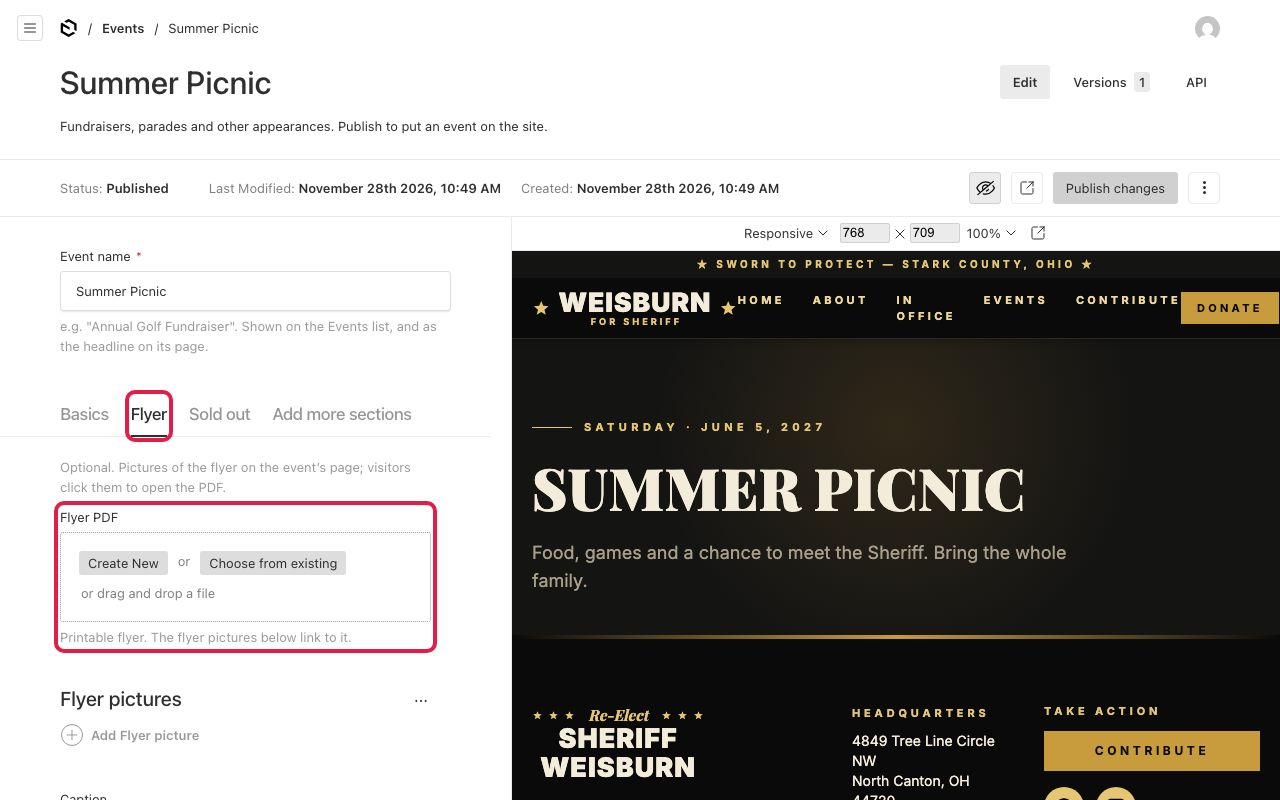
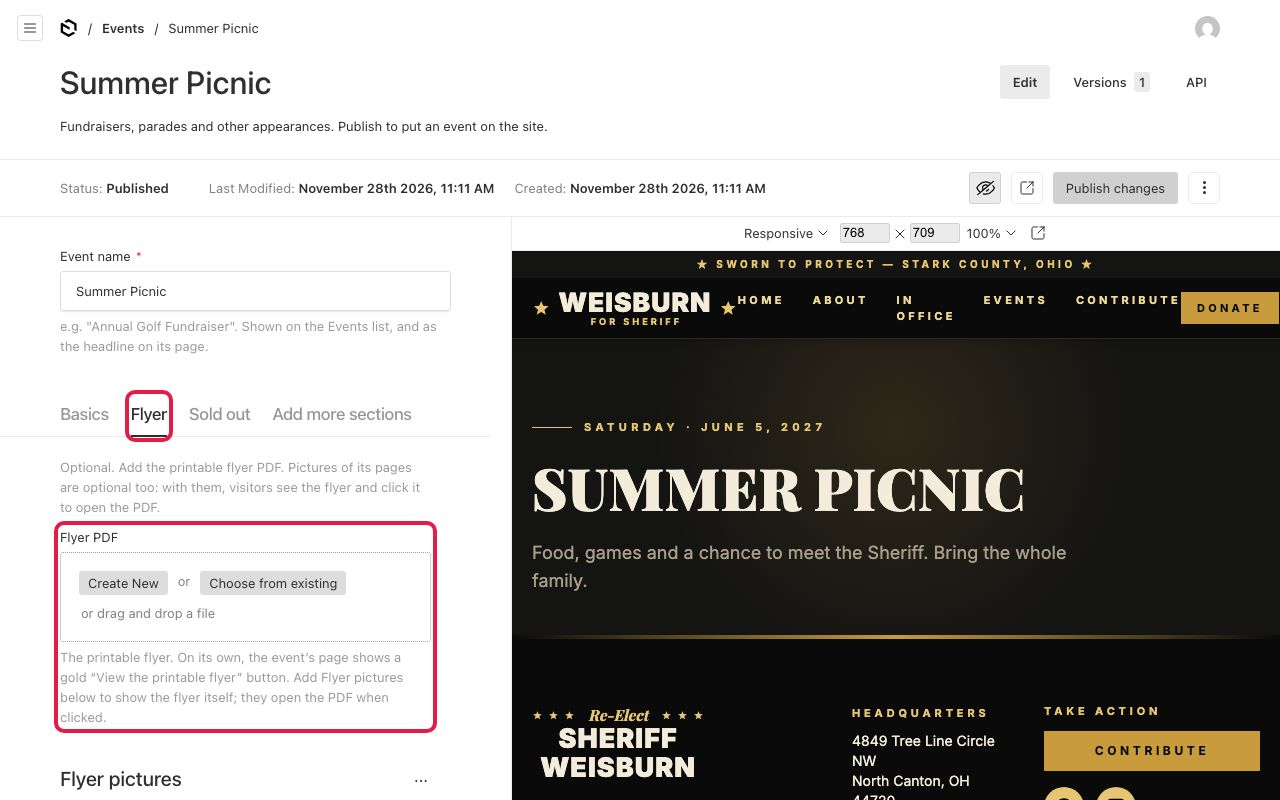
Event flyers: a PDF on its own now shows on the event page
Attaching only a Flyer PDF showed nothing (the page needed flyer pictures).
Now a PDF alone gets a gold "View the printable flyer" button; a PDF put
under "Flyer pictures" is used as the PDF instead of a broken picture, and
that box only accepts pictures. Guide updated.

Changed region(s): [[0.0312, 0.5625, 0.3438, 0.9375], [0.3438, 0.2188, 0.625, 0.25], [0.0312, 0.9688, 0.1562, 1.0]]

diff --git a/app/(frontend)/events/[slug]/page.tsx b/app/(frontend)/events/[slug]/page.tsx
@@ -4,7 +4,7 @@ import { notFound } from "next/navigation";
 import { LAWMAN } from "@/components/designs/lawman/theme";
 import { CmsButton } from "@/components/ui/cms-button";
 import { TAB } from "@/cms/tabs";
-import { asMedia, loadEvent } from "@/lib/cms/content";
+import { eventFlyer, loadEvent } from "@/lib/cms/content";
 import { editable, editableTab } from "@/lib/cms/editable";
 import { eventDateLabel, eventHeading } from "@/lib/cms/eventText";
 import { listEventSlugs } from "@/lib/cms/public";
@@ -22,10 +22,7 @@ export default async function EventPage({ params }: { params: Promise<{ slug: st
   const event = await loadEvent(slug);
   if (!event) notFound();
 
-  const flyerPdf = asMedia(event.flyerPdf);
-  const flyerImages = (event.flyerImages ?? [])
-    .map((item) => ({ ...item, media: asMedia(item.image) }))
-    .filter((item) => item.media?.url);
+  const { pdf: flyerPdf, pictures: flyerImages } = eventFlyer(event);
   const showSoldOut = event.status === "soldOut" && Boolean(event.soldOutBanner?.heading);
   const dateLabel = eventDateLabel(event);
 
@@ -111,16 +108,32 @@ export default async function EventPage({ params }: { params: Promise<{ slug: st
         </div>
       </section>
 
+      {flyerImages.length === 0 && flyerPdf && (
+        // A PDF with no pictures of it: a button to open the printable flyer.
+        <section className="px-5 py-12 md:py-16" style={{ background: BLACK }} {...editable("flyerPdf", TAB.flyer)}>
+          <div className="flex flex-col items-center max-w-5xl gap-5 mx-auto text-center">
+            <CmsButton
+              button={{ label: "View the printable flyer", linkType: "file", file: flyerPdf, style: "primary", newTab: true }}
+            />
+            {event.flyerCaption && (
+              <p className="text-[11px] font-bold tracking-[0.35em] uppercase" style={{ color: GOLD_BRIGHT }}>
+                {event.flyerCaption}
+              </p>
+            )}
+          </div>
+        </section>
+      )}
+
       {flyerImages.length > 0 && (
         <section className="px-5 py-12 md:py-16" style={{ background: BLACK }} {...editable("flyerImages", TAB.flyer)}>
           <div className="max-w-5xl mx-auto space-y-8">
             {flyerImages.map(({ media, linkLabel, id }, index) => {
               const image = (
                 <Image
-                  src={media!.url!}
-                  alt={media!.alt}
-                  width={media!.width ?? 2250}
-                  height={media!.height ?? 1750}
+                  src={media.url!}
+                  alt={media.alt}
+                  width={media.width ?? 2250}
+                  height={media.height ?? 1750}
                   sizes="(max-width: 768px) 100vw, 1100px"
                   className="w-full h-auto"
                   priority={index === 0}

diff --git a/tests/unit/content.test.ts b/tests/unit/content.test.ts
@@ -5,7 +5,7 @@ vi.mock('next/headers', () => ({ draftMode: vi.fn(), headers: vi.fn() }));
 vi.mock('@/lib/cms/preview', () => ({}));
 vi.mock('@/lib/cms/public', () => ({}));
 
-const { buttonHref, sameSiteUrl } = await import('@/lib/cms/content');
+const { buttonHref, eventFlyer, sameSiteUrl } = await import('@/lib/cms/content');
 
 describe('media URLs', () => {
   it('makes locally stored Payload files relative to any host', () => {
@@ -25,5 +25,41 @@ describe('buttons', () => {
     expect(buttonHref({ label: 'Flyer', linkType: 'file', file })).toBe('/api/media/file/f.pdf');
     expect(buttonHref({ label: 'Donate', linkType: 'url', url: '/donate' })).toBe('/donate');
     expect(buttonHref({ label: 'Broken', linkType: 'file', file: null })).toBeNull();
+  });
+});
+
+describe('event flyer', () => {
+  const media = (id: number, filename: string, mimeType: string) => ({
+    id,
+    alt: filename,
+    filename,
+    mimeType,
+    url: `http://localhost:3000/api/media/file/${filename}`,
+    updatedAt: '',
+    createdAt: '',
+  });
+  const pdf = media(1, 'flyer.pdf', 'application/pdf');
+  const front = media(2, 'front.jpg', 'image/jpeg');
+
+  it('shows a PDF on its own (the page then offers a button to open it)', () => {
+    expect(eventFlyer({ flyerPdf: pdf, flyerImages: [] })).toEqual({ pdf: { ...pdf, url: '/api/media/file/flyer.pdf' }, pictures: [] });
+  });
+
+  it('shows pictures of the flyer, each linking to the PDF', () => {
+    const flyer = eventFlyer({ flyerPdf: pdf, flyerImages: [{ id: 'a', image: front, linkLabel: 'Open the flyer' }] });
+    expect(flyer.pdf?.url).toBe('/api/media/file/flyer.pdf');
+    expect(flyer.pictures).toEqual([{ id: 'a', linkLabel: 'Open the flyer', media: { ...front, url: '/api/media/file/front.jpg' } }]);
+  });
+
+  it('uses a PDF put under "Flyer pictures" as the PDF, instead of a broken picture', () => {
+    const flyer = eventFlyer({ flyerPdf: null, flyerImages: [{ image: pdf }, { image: front }] });
+    expect(flyer.pdf?.url).toBe('/api/media/file/flyer.pdf');
+    expect(flyer.pictures.map((p) => p.media.filename)).toEqual(['front.jpg']);
+  });
+
+  it('has nothing to show without uploads', () => {
+    expect(eventFlyer({ flyerPdf: null, flyerImages: null })).toEqual({ pdf: null, pictures: [] });
+    // An unpopulated id (not loaded) is ignored rather than guessed at.
+    expect(eventFlyer({ flyerPdf: 7, flyerImages: [{ image: 8 }] })).toEqual({ pdf: null, pictures: [] });
   });
 });

diff --git a/tests/e2e/cms/cms.spec.ts b/tests/e2e/cms/cms.spec.ts
@@ -57,6 +57,25 @@ const DOT_PNG = Buffer.from(
   'base64',
 );
 
+/** A minimal PDF that passes Payload's PDF check (header, xref table, %%EOF). */
+const TINY_PDF = Buffer.from(
+  [
+    '%PDF-1.4',
+    '1 0 obj<</Type/Catalog/Pages 2 0 R>>endobj',
+    '2 0 obj<</Type/Pages/Kids[]/Count 0>>endobj',
+    'xref',
+    '0 3',
+    '0000000000 65535 f ',
+    '0000000009 00000 n ',
+    '0000000052 00000 n ',
+    'trailer<</Size 3/Root 1 0 R>>',
+    'startxref',
+    '96',
+    '%%EOF',
+    '',
+  ].join('\n'),
+);
+
 type Doc = Record<string, any>; // eslint-disable-line @typescript-eslint/no-explicit-any
 
 /**
@@ -321,6 +340,35 @@ test('"Post a new event" quick form: name, day and place are enough for a finish
 
   expect((await editor.delete(`/api/events/${quickId}`)).status()).toBe(200);
   await eventually(async () => !(await pageText('/events')).text.includes('E2E Quick Picnic'));
+});
+
+test('an event flyer can be just a PDF; a PDF can’t be used as a flyer picture', async () => {
+  const upload = await editor.post('/api/media', {
+    multipart: {
+      file: { name: 'e2e-flyer.pdf', mimeType: 'application/pdf', buffer: TINY_PDF },
+      _payload: JSON.stringify({ alt: 'E2E printable flyer' }),
+    },
+  });
+  expect(upload.status(), await upload.text()).toBe(201);
+  const pdfId = (await upload.json()).doc.id as number;
+
+  const create = await editor.post('/api/events', {
+    data: { _status: 'published', title: 'E2E Flyer Night', date: '2027-03-01T12:00:00.000Z', status: 'upcoming', flyerPdf: pdfId },
+  });
+  expect(create.status(), await create.text()).toBe(201);
+  const id = (await create.json()).doc.id as number;
+
+  // Just the PDF: the page offers a button that opens it.
+  await eventually(async () => {
+    const { status, text } = await pageText('/events/e2e-flyer-night');
+    return status === 200 && text.includes('View the printable flyer') && /href="[^"]*e2e-flyer[^"]*\.pdf"/.test(text);
+  });
+
+  // The pictures box takes pictures only.
+  expect((await editor.patch(`/api/events/${id}`, { data: { flyerImages: [{ image: pdfId }] } })).status()).toBe(400);
+
+  expect((await editor.delete(`/api/events/${id}`)).status()).toBe(200);
+  expect((await editor.delete(`/api/media/${pdfId}`)).status()).toBe(200);
 });
 
 test('clicking part of the live preview opens that field in the form, on the right tab', async ({ page }) => {

diff --git a/cms/help/guides.ts b/cms/help/guides.ts
@@ -339,9 +339,13 @@ export const GUIDES: Guide[] = [
         intro: 'After you click, the full event form opens with a preview of the event’s page beside it.',
         steps: [
           {
-            text: 'For a flyer, click the **Flyer** tab. Add the **Flyer PDF**, then under **Flyer pictures** click **Add Flyer picture** for a picture of each page of the flyer.',
+            text: 'For a flyer, click the **Flyer** tab. Under **Flyer PDF**, click **Create New**, drag in the PDF (or click **Select a file**), type a short description such as “Printable picnic flyer”, and click **Save**.',
             image: 'add-event-3',
-            detail: 'Visitors click the pictures to open the printable PDF.',
+            detail: 'That’s all you need: the event’s page shows a gold **View the printable flyer** button that opens the PDF.',
+          },
+          {
+            text: 'Optional: to show the flyer itself on the page, under **Flyer pictures** click **Add Flyer picture** and add a picture (JPG or PNG) of each page. Visitors click a picture to open the PDF.',
+            detail: 'Put the PDF only in **Flyer PDF**. The pictures box takes pictures only.',
           },
           {
             text: 'For buttons like “RSVP” or “Sponsor”, stay on the **Basics** tab and click **Add Button**. See the guide on buttons and links.',
@@ -370,6 +374,10 @@ export const GUIDES: Guide[] = [
       {
         problem: 'It says there’s already an event with that name.',
         fix: 'Each event needs its own name, because the name becomes its web address. Add something to tell them apart, like the year: “Summer Picnic 2027”.',
+      },
+      {
+        problem: 'My flyer doesn’t show on the event’s page.',
+        fix: 'Check the PDF is in **Flyer PDF** on the **Flyer** tab (not under **Flyer pictures**), then click **Publish changes**. The page shows a **View the printable flyer** button, or your flyer pictures if you added them.',
       },
       {
         problem: 'The event isn’t on the Events page.',

diff --git a/cms/collections/Events.ts b/cms/collections/Events.ts
@@ -171,14 +171,25 @@ export const Events: CollectionConfig = {
             type: 'upload',
             relationTo: 'media',
             filterOptions: { mimeType: { equals: 'application/pdf' } },
-            admin: { description: 'Printable flyer. The flyer pictures below link to it.' },
+            admin: {
+              description:
+                'The printable flyer. On its own, the event’s page shows a gold “View the printable flyer” button. Add Flyer pictures below to show the flyer itself; they open the PDF when clicked.',
+            },
           },
           {
             name: 'flyerImages',
             label: 'Flyer pictures',
             type: 'array',
+            admin: { description: 'Optional. A photo or picture (JPG or PNG) of each page of the flyer, not the PDF itself.' },
             fields: [
-              { name: 'image', type: 'upload', relationTo: 'media', required: true },
+              {
+                name: 'image',
+                type: 'upload',
+                relationTo: 'media',
+                required: true,
+                // Pictures only: a PDF can't be shown as a picture (it goes in Flyer PDF above).
+                filterOptions: { mimeType: { contains: 'image/' } },
+              },
               {
                 name: 'linkLabel',
                 label: 'Description for screen readers',
@@ -189,7 +200,7 @@ export const Events: CollectionConfig = {
           },
           { name: 'flyerCaption', type: 'text', admin: { description: 'e.g. "Tap either page to open the printable PDF".' } },
         ],
-        'Optional. Pictures of the flyer on the event’s page; visitors click them to open the PDF.',
+        'Optional. Add the printable flyer PDF. Pictures of its pages are optional too: with them, visitors see the flyer and click it to open the PDF.',
       ),
       tab(
         TAB.soldOut,

diff --git a/lib/cms/content.ts b/lib/cms/content.ts
@@ -53,6 +53,29 @@ export function asMedia(value: number | Media | null | undefined): Media | null 
   return { ...value, url: sameSiteUrl(value.url) };
 }
 
+const isPdf = (media: Media | null): media is Media => Boolean(media?.url && media.mimeType === 'application/pdf');
+const isImage = (media: Media | null): media is Media => Boolean(media?.url && media.mimeType?.startsWith('image/'));
+
+export type EventFlyer = {
+  /** The printable PDF, if any. */
+  pdf: Media | null;
+  /** Pictures of the flyer's pages (photos only), each linking to the PDF. */
+  pictures: { id?: string | null; media: Media; linkLabel?: string | null }[];
+};
+
+/**
+ * An event's flyer, forgiving of where the editor put things: a PDF added
+ * under "Flyer pictures" (which can't be shown as a picture) is used as the
+ * PDF instead of breaking the page.
+ */
+export function eventFlyer(event: Pick<Event, 'flyerPdf' | 'flyerImages'>): EventFlyer {
+  const items = (event.flyerImages ?? []).map((item) => ({ id: item.id, media: asMedia(item.image), linkLabel: item.linkLabel }));
+  const declared = asMedia(event.flyerPdf);
+  const pdf = isPdf(declared) ? declared : (items.find((item) => isPdf(item.media))?.media ?? null);
+  const pictures = items.flatMap(({ media, ...item }) => (isImage(media) ? [{ ...item, media }] : []));
+  return { pdf, pictures };
+}
+
 export type Button = NonNullable<Event['buttons']>[number];
 
 /** Where a CMS button points: a typed URL/path, or an uploaded file. */

diff --git a/payload-types.ts b/payload-types.ts
@@ -541,9 +541,12 @@ export interface Event {
    */
   headingAccent?: string | null;
   /**
-   * Printable flyer. The flyer pictures below link to it.
+   * The printable flyer. On its own, the event’s page shows a gold “View the printable flyer” button. Add Flyer pictures below to show the flyer itself; they open the PDF when clicked.
    */
   flyerPdf?: (number | null) | Media;
+  /**
+   * Optional. A photo or picture (JPG or PNG) of each page of the flyer, not the PDF itself.
+   */
   flyerImages?:
     | {
         image: number | Media;
